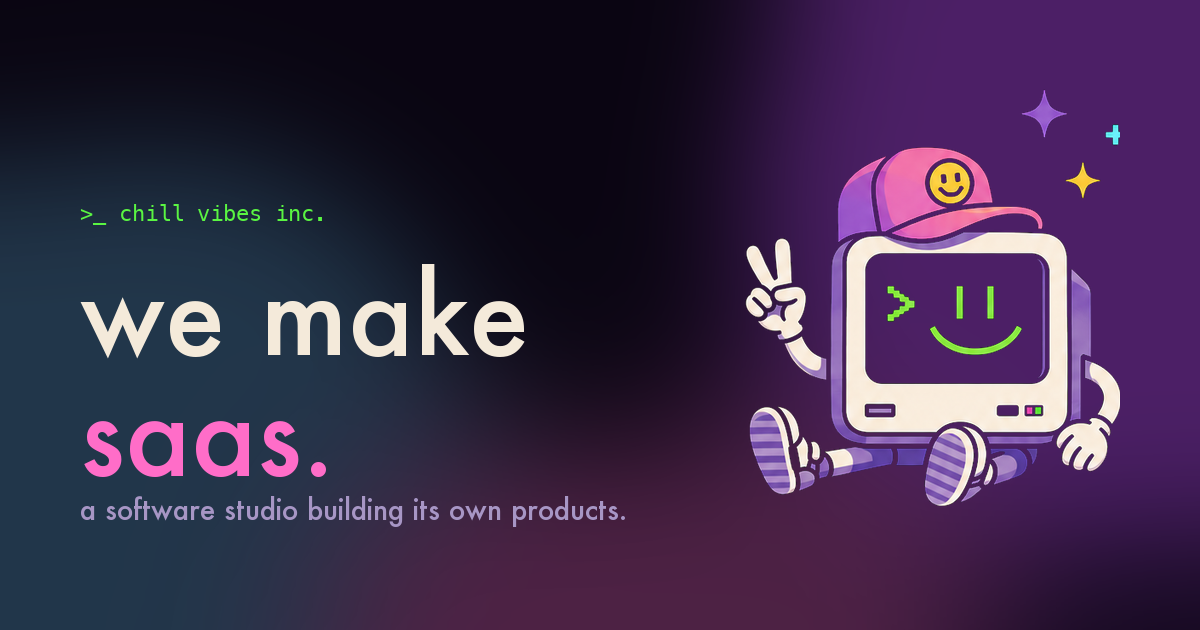
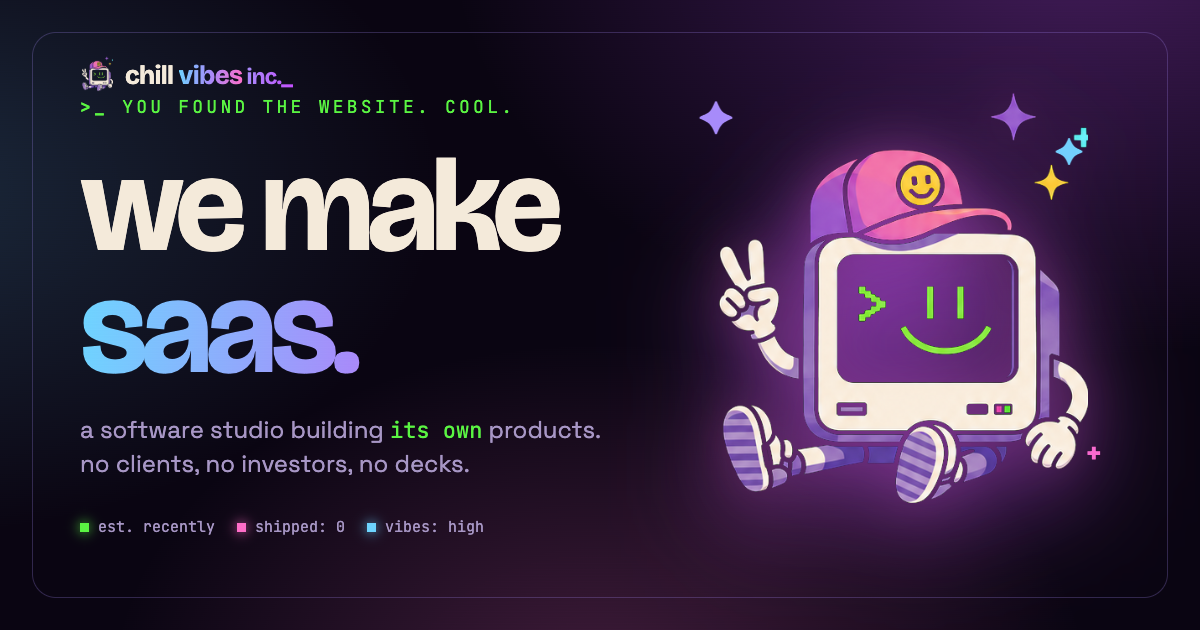
regenerate OG image with brand fonts
The previous og-image.png was rendered by PIL with macOS system
fonts (Futura/Menlo) since PIL can't speak web fonts. Add
public/og-template.html (a 1200x630 standalone page styled to
match the site, fonts via Google Fonts CDN) and re-render the
OG image as a screenshot of it. Template stays in source so the
image can be regenerated whenever the brand changes.

diff --git a/public/og-template.html b/public/og-template.html
@@ -1,0 +1,208 @@
+<!doctype html>
+<html lang="en">
+<head>
+  <meta charset="utf-8" />
+  <link rel="preconnect" href="https://fonts.googleapis.com" />
+  <link rel="preconnect" href="https://fonts.gstatic.com" crossorigin />
+  <link href="https://fonts.googleapis.com/css2?family=Bricolage+Grotesque:opsz,wght@12..96,400;12..96,600;12..96,700&family=JetBrains+Mono:wght@400;500;700&family=Space+Grotesk:wght@400;500;600;700&display=swap" rel="stylesheet" />
+  <style>
+    :root {
+      --bg: #0a0512;
+      --ink: #f4eada;
+      --ink-soft: #a796c5;
+      --pink: #ff6dc8;
+      --cyan: #6dd5ff;
+      --purple: #a78bfa;
+      --green: #5af542;
+      --magenta: #c450ff;
+    }
+    *,*::before,*::after { box-sizing: border-box; }
+    html, body { margin: 0; padding: 0; }
+    body {
+      width: 1200px;
+      height: 630px;
+      background: var(--bg);
+      color: var(--ink);
+      font-family: "Space Grotesk", system-ui, sans-serif;
+      overflow: hidden;
+      position: relative;
+      background-image:
+        radial-gradient(900px 600px at 90% -10%, rgba(196,80,255,0.30), transparent 70%),
+        radial-gradient(800px 500px at -10% 30%, rgba(109,213,255,0.18), transparent 70%),
+        radial-gradient(700px 500px at 50% 110%, rgba(255,109,200,0.22), transparent 70%);
+    }
+    .scanlines {
+      position: absolute; inset: 0; pointer-events: none;
+      background-image: repeating-linear-gradient(0deg, rgba(255,255,255,0.025) 0 1px, transparent 1px 3px);
+      mix-blend-mode: overlay; opacity: 0.5;
+    }
+    .frame {
+      position: absolute; inset: 32px;
+      border: 1px solid rgba(167,139,250,0.25);
+      border-radius: 24px;
+      pointer-events: none;
+    }
+    .grid {
+      display: grid;
+      grid-template-columns: 1.2fr 1fr;
+      align-items: center;
+      width: 100%;
+      height: 100%;
+      padding: 72px 80px;
+      gap: 32px;
+    }
+    .eyebrow {
+      font-family: "JetBrains Mono", monospace;
+      font-size: 18px;
+      letter-spacing: 0.18em;
+      text-transform: uppercase;
+      color: var(--green);
+      margin-bottom: 28px;
+    }
+    .eyebrow::before { content: ">_ "; font-weight: 700; }
+
+    h1 {
+      font-family: "Bricolage Grotesque", sans-serif;
+      font-weight: 700;
+      font-size: 132px;
+      line-height: 0.92;
+      letter-spacing: -0.045em;
+      margin: 0 0 24px;
+    }
+    .line { display: block; }
+    .we { color: var(--ink); }
+    .saas {
+      background: linear-gradient(95deg, var(--cyan), var(--purple) 50%, var(--pink) 90%);
+      -webkit-background-clip: text;
+      background-clip: text;
+      color: transparent;
+    }
+    .tagline {
+      font-family: "Space Grotesk", sans-serif;
+      font-size: 24px;
+      line-height: 1.4;
+      color: var(--ink-soft);
+      max-width: 540px;
+      margin: 0 0 36px;
+    }
+    .tagline em {
+      font-style: normal;
+      font-family: "JetBrains Mono", monospace;
+      color: var(--green);
+      font-size: 22px;
+    }
+    .meta {
+      display: flex;
+      gap: 22px;
+      font-family: "JetBrains Mono", monospace;
+      font-size: 15px;
+      color: var(--ink-soft);
+      text-transform: lowercase;
+    }
+    .meta .pip {
+      display: inline-block;
+      width: 9px;
+      height: 9px;
+      margin-right: 9px;
+      vertical-align: middle;
+    }
+    .meta .pip.g { background: var(--green); box-shadow: 0 0 12px var(--green); }
+    .meta .pip.p { background: var(--pink); box-shadow: 0 0 12px var(--pink); }
+    .meta .pip.c { background: var(--cyan); box-shadow: 0 0 12px var(--cyan); }
+
+    .mascot-wrap {
+      position: relative;
+      width: 100%;
+      height: 100%;
+      display: flex;
+      align-items: center;
+      justify-content: center;
+    }
+    .mascot-orb {
+      position: absolute;
+      inset: 10%;
+      border-radius: 50%;
+      background: radial-gradient(circle at 50% 50%, rgba(196,80,255,0.55), transparent 60%);
+      filter: blur(40px);
+    }
+    .mascot {
+      position: relative;
+      width: 86%;
+      height: auto;
+      filter:
+        drop-shadow(0 30px 50px rgba(196,80,255,0.55))
+        drop-shadow(0 0 24px rgba(255,109,200,0.25));
+    }
+    .spark {
+      position: absolute;
+      font-family: "Bricolage Grotesque", sans-serif;
+      font-weight: 700;
+    }
+    .s1 { top: 4%; left: 8%; color: var(--purple); font-size: 44px; }
+    .s2 { top: 12%; right: 8%; color: var(--cyan); font-size: 36px; }
+    .s3 { bottom: 18%; right: 4%; color: var(--pink); font-size: 30px; }
+
+    .corner {
+      position: absolute;
+      top: 56px;
+      left: 80px;
+      display: inline-flex;
+      align-items: center;
+      gap: 12px;
+      font-family: "Bricolage Grotesque", sans-serif;
+      font-weight: 700;
+      font-size: 26px;
+      letter-spacing: -0.025em;
+    }
+    .corner img { height: 38px; width: auto; }
+    .corner .a { color: var(--ink); }
+    .corner .b {
+      background: linear-gradient(95deg, var(--cyan), var(--purple), var(--pink));
+      -webkit-background-clip: text;
+      background-clip: text;
+      color: transparent;
+    }
+    .corner .c {
+      background: linear-gradient(95deg, var(--purple), var(--magenta));
+      -webkit-background-clip: text;
+      background-clip: text;
+      color: transparent;
+      font-size: 22px;
+      margin-left: 4px;
+    }
+  </style>
+</head>
+<body>
+  <div class="scanlines"></div>
+  <div class="frame"></div>
+
+  <div class="corner">
+    <img src="mascot.png" alt="" />
+    <span><span class="a">chill </span><span class="b">vibes</span><span class="c">inc._</span></span>
+  </div>
+
+  <div class="grid">
+    <div>
+      <div class="eyebrow">you found the website. cool.</div>
+      <h1>
+        <span class="line we">we make</span>
+        <span class="line saas">saas.</span>
+      </h1>
+      <p class="tagline">a software studio building <em>its own</em> products. no clients, no investors, no decks.</p>
+      <div class="meta">
+        <span><span class="pip g"></span>est. recently</span>
+        <span><span class="pip p"></span>shipped: 0</span>
+        <span><span class="pip c"></span>vibes: high</span>
+      </div>
+    </div>
+
+    <div class="mascot-wrap">
+      <div class="mascot-orb"></div>
+      <span class="spark s1">✦</span>
+      <span class="spark s2">✦</span>
+      <span class="spark s3">+</span>
+      <img class="mascot" src="mascot.png" alt="" />
+    </div>
+  </div>
+</body>
+</html>
